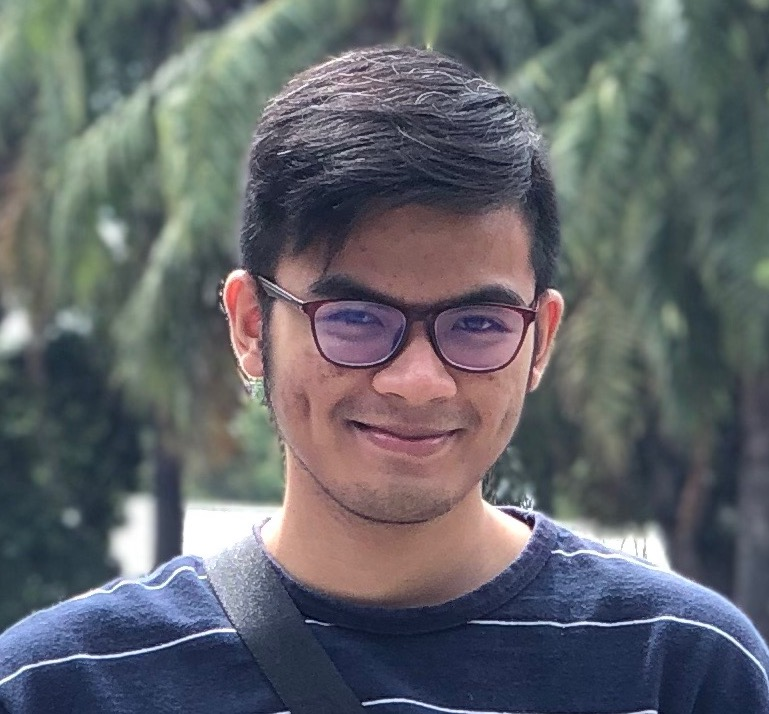
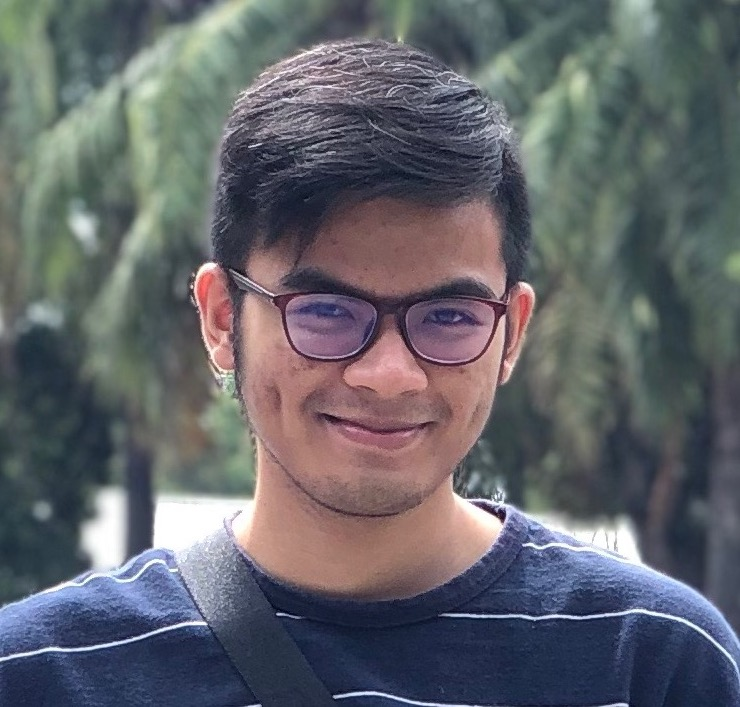
finished responsiveness

diff --git a/src/components/hero/index.js b/src/components/hero/index.js
@@ -13,19 +13,23 @@ const Hero = () => {
         height: 80vh;
         width: 100%;
         position: relative;
+
+        @media only screen and (min-width: 768px) {
+          height: 60vh;
+        }
+
+        @media screen and (min-width: 1200px) {
+          height: 60vh;
+        }
       `}
     >
       <Background
-        viewBox="1300 0 300 540"
+        preserveAspectRatio="xMidYMid slice"
         css={css`
           position: absolute;
           top: 0;
           left: 0;
           z-index: -1;
-
-          @media screen and (min-width: 1200px) {
-            border: 3px solid yellow;
-          }
         `}
       ></Background>
 
@@ -61,10 +65,17 @@ const Hero = () => {
               height: 150px;
               width: 150px;
             }
+
+            @media screen and (min-width: 1200px) {
+              height: 120px;
+              width: 120px;
+            }
           `}
         >
           <Img
             css={css`
+              height: 100%;
+              width: 100%;
               object-fit: cover;
             `}
             fluid={coverPhoto}
@@ -98,6 +109,12 @@ const Hero = () => {
                 font-size: 2.75rem;
                 letter-spacing: 0.175rem;
               }
+
+              @media screen and (min-width: 1200px) {
+                flex-basis: 60%;
+                padding: 0 10%;
+                font-size: 2.25rem;
+              }
             `}
           >
             Blogs and other blunders
@@ -117,10 +134,15 @@ const Hero = () => {
               font-size: 1.75rem;
               line-height: 2rem;
             }
+
+            @media screen and (min-width: 1200px) {
+              flex-basis: 60%;
+              font-size: 1.25rem;
+            }
           `}
         >
           I'm Carlo Janea, a front-end engineer, and I write things  on tech,
-          life, and just about anything really.
+          life, and just about anything.
         </h3>
       </div>
     </div>

diff --git a/src/components/post-preview.js b/src/components/post-preview.js
@@ -12,7 +12,23 @@ const PostPreview = ({ post }) => {
     stiffness: 200,
   }
   return (
-    <Link to={post.slug}>
+    <Link
+      to={`/${post.slug}`}
+      css={css`
+        flex: 0 0 100%;
+        display: flex;
+        flex-flow: row wrap;
+
+        @media screen and (min-width: 1200px) {
+          flex: 0 0 44%;
+          margin-left: 4%;
+        }
+
+        @media screen and (min-width: 1920px) {
+          flex: 0 0 28%;
+        }
+      `}
+    >
       <motion.div
         layoutTransition={spring}
         whileHover={{ scale: 1.025 }}
@@ -26,6 +42,10 @@ const PostPreview = ({ post }) => {
           position: relative;
           box-shadow: 10px 10px 44px -12px rgba(0, 27, 90, 1),
             2px 2px 8px -3px rgba(0, 27, 90, 1);
+
+          @media screen and (min-width: 1920px) {
+            margin: 1.5rem 0;
+          }
         `}
       >
         <Img

diff --git a/src/pages/index.js b/src/pages/index.js
@@ -27,19 +27,33 @@ const IndexPage = () => {
           width: 90%;
           margin-left: 5%;
           margin: 1rem auto;
+          display: flex;
+          flex-flow: row wrap;
 
           @media only screen and (min-width: 768px) {
             margin-left: 25%;
             width: 50%;
+          }
+
+          @media screen and (min-width: 1200px) {
+            margin-left: 15%;
+            width: 70%;
           }
         `}
       >
         <div
           css={css`
             display: flex;
+            flex: 0 0 100%;
+
             flex-flow: row wrap;
             align-items: center;
             justify-content: space-between;
+
+            @media screen and (min-width: 1200px) {
+              flex: 0 0 92%;
+              margin-left: 4%;
+            }
           `}
         >
           <h2>Posts</h2>

diff --git a/src/templates/post.js b/src/templates/post.js
@@ -50,6 +50,10 @@ const PostTemplate = ({
           width: 100%;
           height: 40vh;
           position: relative;
+
+          @media only screen and (min-width: 1200px) {
+            height: 60vh;
+          }
         `}
       >
         <Img
@@ -95,6 +99,12 @@ const PostTemplate = ({
           width: 88%;
           display: flex;
           flex-flow: row wrap;
+
+          @media only screen and (min-width: 768px) {
+            margin-top: 2rem;
+            margin-left: 15%;
+            width: 70%;
+          }
         `}
       >
         <div
